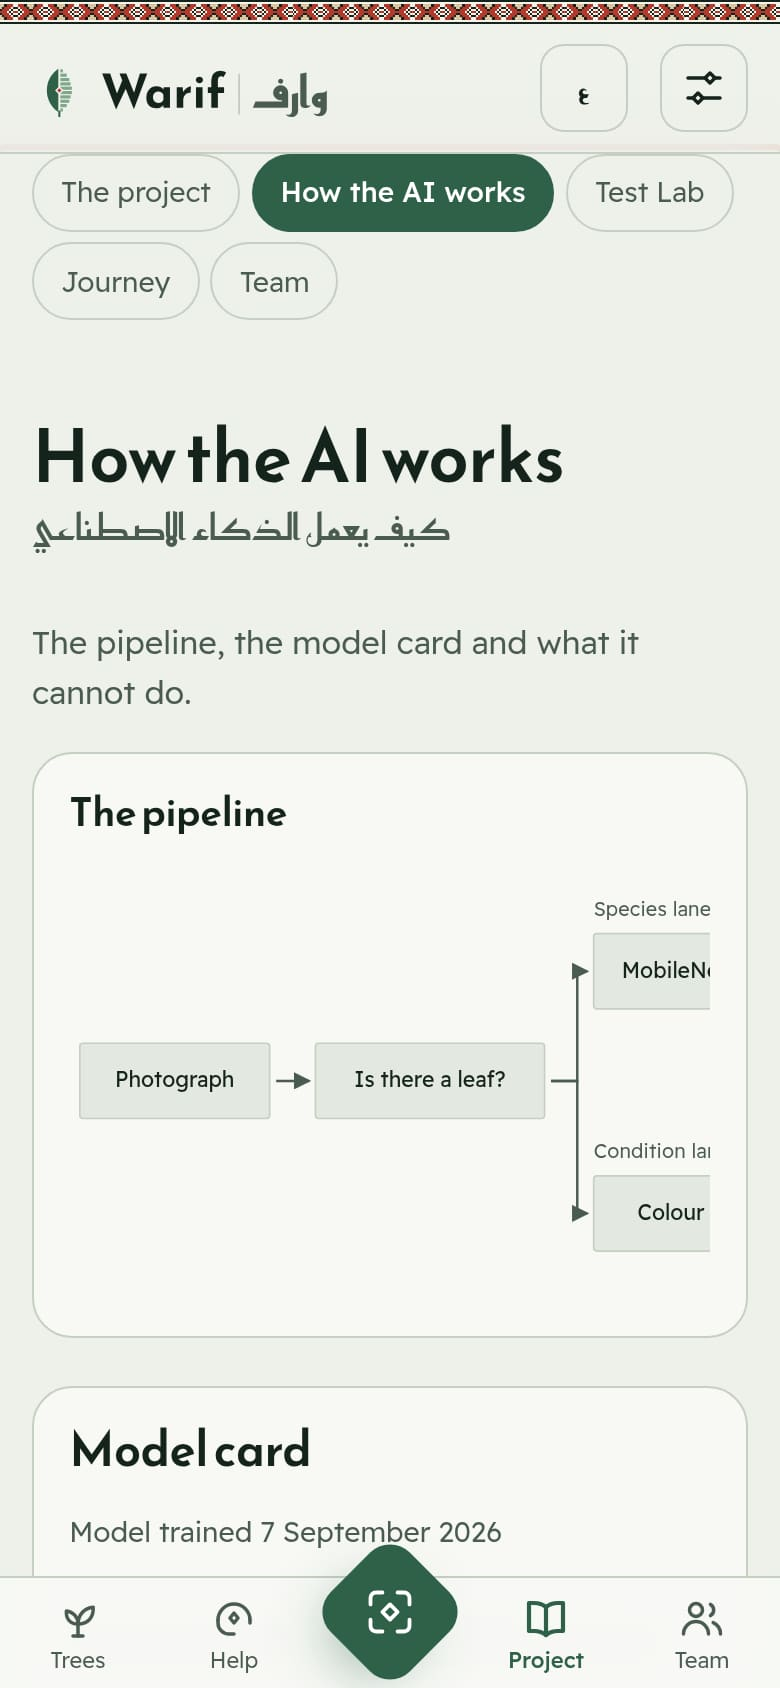
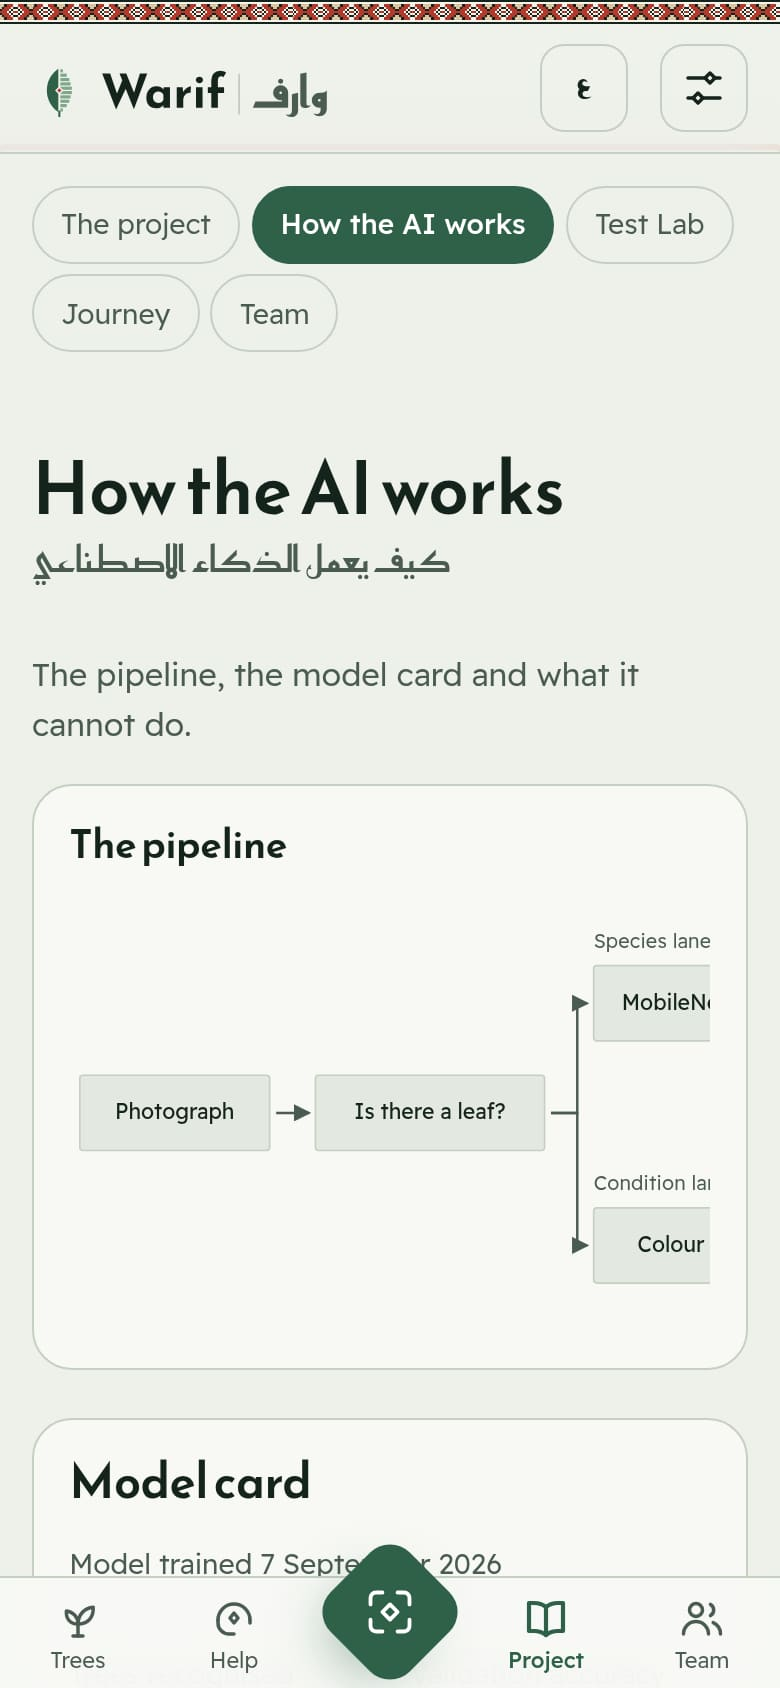
Refresh the evidence set, and make the test nag about every unconfirmed fact
Sixty screenshots recaptured after the Team page changes; the Journey
comparison pairs and the poster's phone shots are copied into the app.

npm test now collects unconfirmed facts from all three places they live, not
just config.js. The quotation's wording and the undated production stages were
only ever surfaced by the 'To confirm' chips that just came off the pages, and
losing the reminder along with the chip would have been the wrong trade. It
lists three: the feedback form URL, the Zayed quotation, and the three stage
dates the repository cannot know.

diff --git a/app/sw.js b/app/sw.js
@@ -10,7 +10,7 @@
  * anything in app/, and the cache name changes with the contents. Editing
  * either by hand will work until the next time somebody runs the tool.
  */
-const CACHE = 'warif-v1-4e15bb7b';
+const CACHE = 'warif-v1-9ffbdc90';
 
 const SHELL = [
   './',
